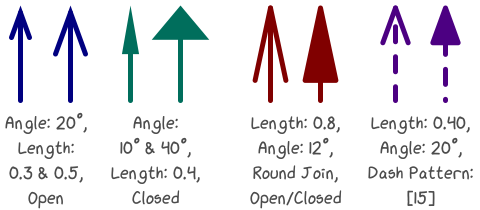
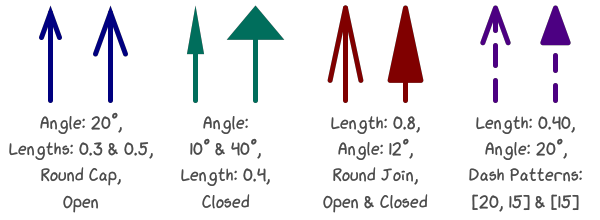
add autogenerated overview table of implemented drawing methods

diff --git a/docs/source/conf.py b/docs/source/conf.py
@@ -21,6 +21,7 @@ project = 'viren2d'
 copyright = '2022, snototter'
 author = 'snototter'
 
+from multiprocessing import dummy
 import viren2d
 version = viren2d.__version__
 release = version
@@ -93,8 +94,9 @@ html_static_path = []
 #html_static_path = ['_static']
 
 
-#https://stackoverflow.com/a/5599712/400948
-def skip(app, what, name, obj, would_skip, options):
+# Include operators in autodoc
+# Taken from https://stackoverflow.com/a/5599712/400948
+def autodoc_skip_member(app, what, name, obj, would_skip, options):
     if name == "__init__":
         return False
     # Include overloaded operators:
@@ -104,24 +106,74 @@ def skip(app, what, name, obj, would_skip, options):
         return False
     return would_skip
 
+
+# Provides a summary table with links to the most important
+# interface functionality, e.g. Painter.draw_xxx methods, maybe later
+# on pseudocoloring, ...
+from docutils import nodes
+from docutils.parsers.rst import Directive, directives
+from docutils.statemachine import StringList
+from sphinx.util.nodes import nested_parse_with_titles
+from inspect import currentframe
+
+def get_linenumber():
+    cf = currentframe()
+    return cf.f_back.f_lineno
+
+class Viren2dDrawingSummary(Directive):
+    has_content = True
+
+    def run(self):
+        tdraw = self._create_table_drawing_methods()
+        return tdraw
+
+    
+    def _create_table_drawing_methods(self):
+        """
+        Creates a rst-formatted StringList, which is
+        then parsed and returned as a `nodes.table` instance
+        I didn't find an easier way to resolve the code doc links.
+        """
+        draw_fxs = sorted(
+            [f for f in dir(viren2d.Painter)
+             if callable(getattr(viren2d.Painter, f))
+             and f.startswith('draw_')])
+        max_fname_len = max([len(f) for f in draw_fxs])
+
+        docstr = []
+        for f in draw_fxs:
+            m = getattr(viren2d.Painter, f)
+            # Find the first non-empty line after the method's signature
+            lines = list(
+                filter(len, [l.strip() for l in m.__doc__.split('\n')[1:10]]))
+            if len(lines) > 0:
+                docstr.append(lines[0])
+            else:
+                docstr.append('')
+        max_summary_len = max([len(d) for d in docstr])
+        # We add 25 chars in col 0 for the markup :meth:`~viren2d.Painter.`
+        max_fname_len += 25
+        row_fmt_str = f'{{name:{max_fname_len}s}}  {{summary:s}}'
+        ruler = max_fname_len * '=' + '  ' + max_summary_len * '='
+
+        lines = [ruler]
+        for idx in range(len(draw_fxs)):
+            frst = f':meth:`~viren2d.Painter.{draw_fxs[idx]}`'
+            srst = docstr[idx]
+            lines.append(row_fmt_str.format(name=frst, summary=srst))
+        lines.append(ruler)
+
+        self.content = StringList(lines)
+        txt = '\n'.join(self.content)
+        node = nodes.table(txt)
+        self.add_name(node)
+        self.state.nested_parse(self.content, self.content_offset, node)
+        return node.children
+
+
 def setup(app):
-    app.connect("autodoc-skip-member", skip)
+    # I want to include overloaded operators in autodoc
+    app.connect("autodoc-skip-member", autodoc_skip_member)
 
-#autodoc_default_flags = ['members', 'private-members', 'special-members',
-#                         #'undoc-members',
-#                         'show-inheritance']
-
-#def autodoc_skip_member(app, what, name, obj, skip, options):
-#    # Ref: https://stackoverflow.com/a/21449475/
-#    exclusions = ('__weakref__',  # special-members
-#                  '__doc__', '__module__', '__dict__',  # undoc-members
-#                  )
-#    exclude = name in exclusions
-#    print(f'what {what}::: name {name}::: obj {obj}::: skip {skip}')
-#    # return True if (skip or exclude) else None  # Can interfere with subsequent skip functions.
-#    return True if exclude else None
- 
-#def setup(app):
-#    app.connect('autodoc-skip-member', autodoc_skip_member)
-
-
+    # Custom directives
+    app.add_directive("viren2d-drawing-summary", Viren2dDrawingSummary)

diff --git a/docs/source/tutorial/basics.rst b/docs/source/tutorial/basics.rst
@@ -4,21 +4,25 @@
 Know the Basics
 ---------------
 
-**How do I draw "stuff"?**
-   You need to :ref:`use a painter<tutorial-painter-usage>` and invoke its
+**How to draw "stuff"?**
+   :ref:`Initialize a painter's canvas<tutorial-painter-usage>` and invoke its
    ``draw_...`` methods.
 
+**Which "stuff" can be drawn?**
+   .. viren2d-drawing-summary::
 
-**What about the Coordinate System?**
+
+**Which coordinate system is used?**
    All coordinates assume an image coordinate system, where the origin
    ``(0, 0)`` is at the *top left* corner, the positive *x*-axis is
    pointing right and the positive *y*-axis is pointing down.
 
 
-**How do I specify angles?**
+**How to specify angles?**
    All angle measurements should be provided in *degrees*. The rotation
    direction for positive angles is from the positive *x*-axis towards the
    positive *y*-axis.
+
 
 
 .. warning::

diff --git a/docs/source/api-documentation.rst b/docs/source/api-documentation.rst
@@ -15,7 +15,7 @@ API Documentation
    apidoc/apidoc-drawing
 
 
-**Basic data types:**
+**Basic Data Types:**
 
    .. autosummary::
       :nosignatures:
@@ -45,7 +45,7 @@ API Documentation
       viren2d.RGBa
 
 
-**Primitives Utilities:**
+**Shape Utilities:**
 
    .. autosummary:: 
       :nosignatures:
@@ -56,14 +56,14 @@ API Documentation
       viren2d.rect_from_ltwh
 
 
-**Drawing:**
+**Drawing Functionality:**
 
-   .. autosummary::
-  
-      viren2d.Painter
+   The :class:`~viren2d.Painter` provides the following drawing functionality:
+
+   .. viren2d-drawing-summary::
 
 
-**Style definitions:**
+**Style Definitions:**
 
    .. autosummary::
       :nosignatures:

diff --git a/docs/source/tutorial/conversion.rst b/docs/source/tutorial/conversion.rst
@@ -38,9 +38,6 @@ thus, provides fast direct access to its raw internal data representation:
 
 
 .. note::
-   When using *shared* views on the memory, you should obviously pay attention
-   to the objects' lifetimes - or meet *segfault, ye olde friend...*
-
    For the conversion example above, note that the :class:`~viren2d.Painter`
    provides an option to access its internal memory - refer to the documentation
    of its :meth:`~viren2d.Painter.get_canvas`.

diff --git a/docs/source/apidoc/apidoc-styles.rst b/docs/source/apidoc/apidoc-styles.rst
@@ -6,12 +6,9 @@ Defining Styles
 Arrow Style
 ~~~~~~~~~~~
 
-.. warning::
-   TODO replace by the proper cheat sheet
-
-.. figure:: ../images/arrows.png
-   :width: 400
-   :alt: Arrows
+.. figure:: ../images/arrow-style-cheat-sheet.png
+   :width: 600
+   :alt: Style cheat sheet for arrows
    :align: center
 
    :class:`~viren2d.ArrowStyle` Cheat Sheet

diff --git a/docs/source/tutorial/draw-primitives.rst b/docs/source/tutorial/draw-primitives.rst
@@ -1,6 +1,6 @@
-~~~~~~~~~~~~~~~~~~~~
-Geometric Primitives
-~~~~~~~~~~~~~~~~~~~~
+~~~~~~~~~~~~
+Basic Shapes
+~~~~~~~~~~~~
 
 This tutorial section only shows some selected shapes & primitives with their
 corresponding code examples. For a detailed listing of supported shapes, refer
